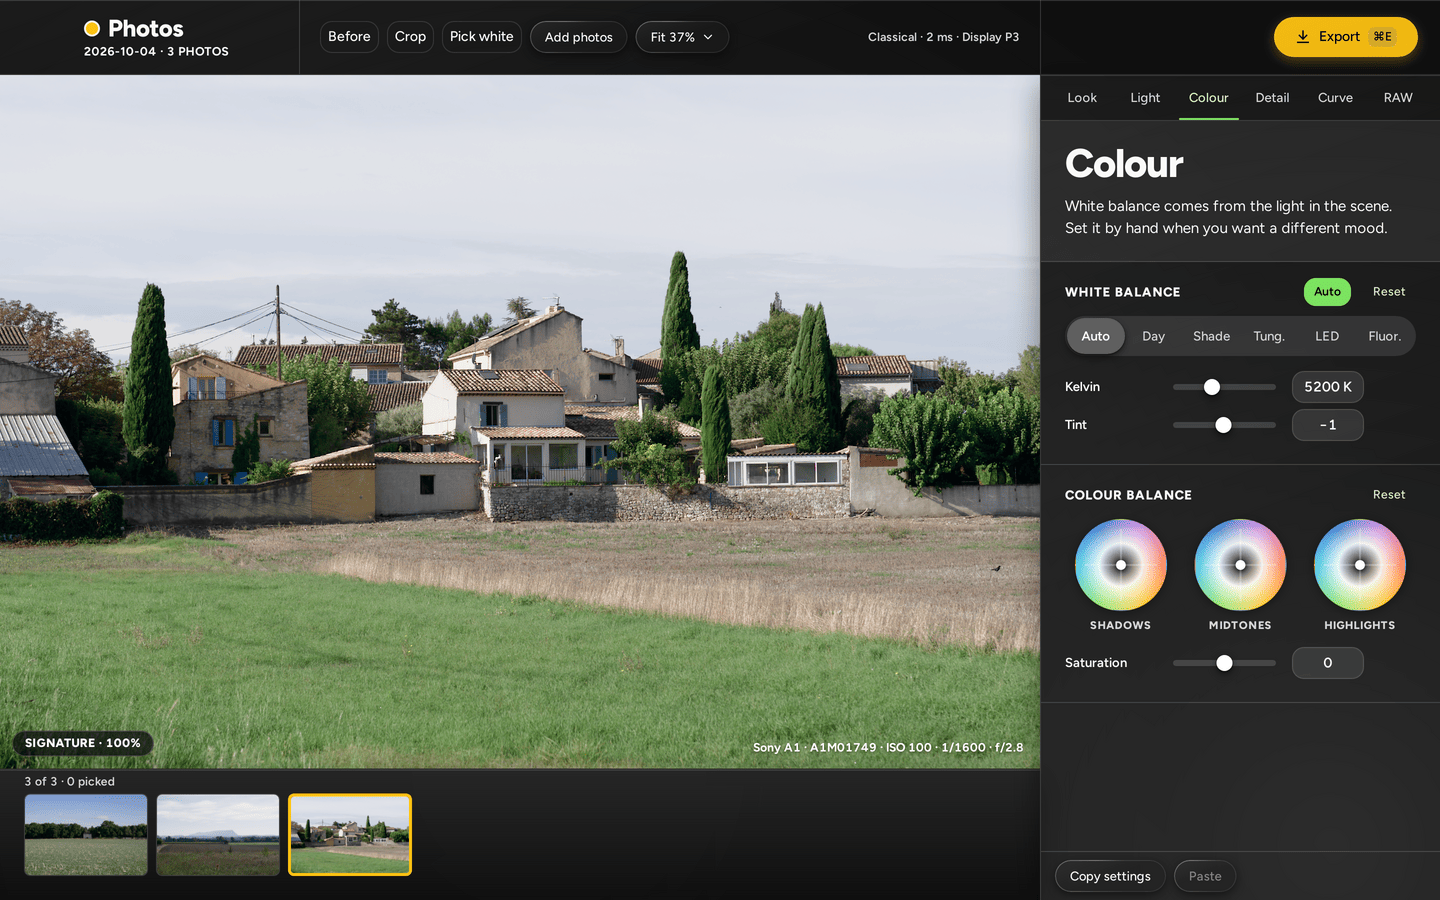
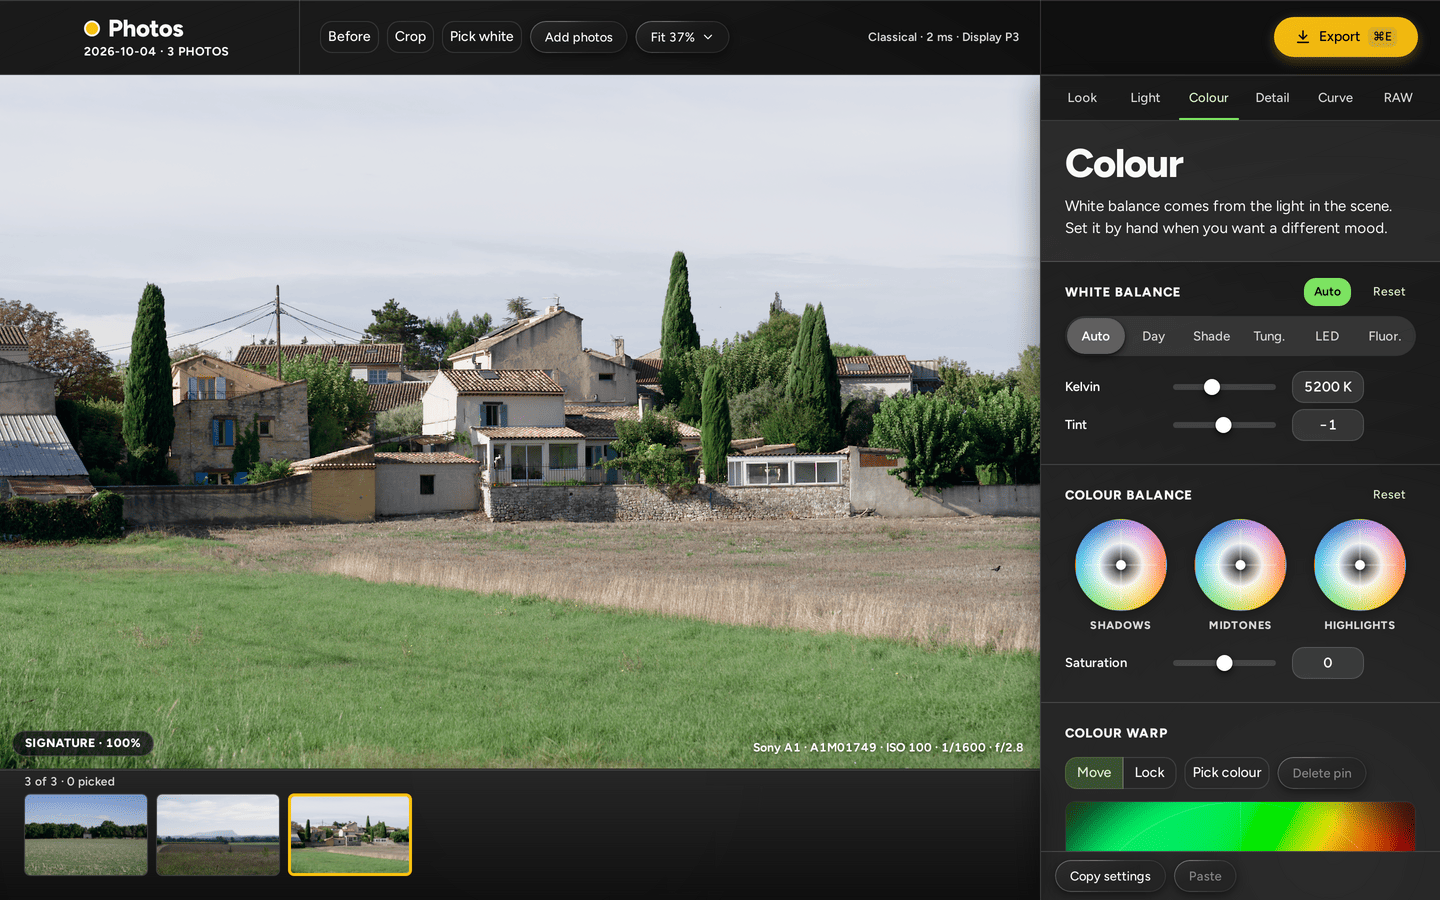
README: the Colour warp card in the screenshots
The README's Colour picture was taken before the colour warp existed.
tools/readme gets a colour-warp state: the Colour tab scrolled to the
Colour warp card, waiting for the photo's colours on the plane. A new
--warp option adds pins the way a person does (Pick colour, a click on
the photo, the arrow keys) and removes them after the picture.

The README picture is one pin on the grass of A1M01749, moved 0.014
towards green. photo-colour.png is retaken (the top of the warp card now
shows under Colour balance); the Export picture moves below the grid.

Claude-Session: https://claude.ai/code/session_015yVsquBXWFc8zJt2CLktQS

diff --git a/tools/readme/driver.js b/tools/readme/driver.js
@@ -2,8 +2,9 @@
 // Plain browser JavaScript, no imports; the helpers come from e2e/real/kit.js.
 //
 // It opens the photos the way a person does (a drop on the window), waits until everything on screen is final, and asks the runner for a
-// picture of the screen in each state: the Start screen with the photos ready, the Look, Light, Colour and Detail tabs, and the Export
-// panel. A state is never captured while a frame, a thumbnail, a look tile or the histogram is still on its way.
+// picture of the screen in each state: the Start screen with the photos ready, the Look, Light, Colour and Detail tabs, the Colour tab's
+// Colour warp card, and the Export panel. A state is never captured while a frame, a thumbnail, a look tile, the histogram or the colours
+// of the warp plane are still on their way.
 (function () {
   "use strict";
   const config = window.__SMOKE__;
@@ -11,6 +12,12 @@
 
   /** The tool tabs by the name of a state: the key that picks the tab (⌘1 to ⌘4) and the words of its title block. */
   const TABS = { look: { key: "1", title: "Look" }, light: { key: "2", title: "Light" }, colour: { key: "3", title: "Colour" }, detail: { key: "4", title: "Detail" } };
+  /** The tab each photo state shows. */
+  const STATE_TAB = { look: "look", light: "light", colour: "colour", "colour-warp": "colour", detail: "detail" };
+  /** How far one press of an arrow key moves a warp pin on the chroma plane (`WARP_KEY_STEP`); with Shift, ten times as far. */
+  const WARP_KEY_STEP = 0.002;
+  /** On while the Colour warp card is captured: the plane must show the photo's colours before the picture is taken. */
+  let warpShown = false;
   const note = (text) => send("note", { text });
   const device = (n) => Math.round(n * (window.devicePixelRatio || 1));
   const rectOf = (el) => {
@@ -102,6 +109,10 @@
         }
       } else if (activeTab() === "light") {
         if (!qa(".ym-histogram svg path").some((p) => (p.getAttribute("d") || "").length > 10)) why.push("the histogram is empty");
+      } else if (activeTab() === "colour" && warpShown) {
+        const plane = q(".ym-warp-plane");
+        if (!plane) why.push("no Colour warp card");
+        else if (Number(plane.getAttribute("data-scatter-points") || 0) === 0) why.push("the warp plane has no colours of the photo yet");
       }
     } else why.push("unexpected screen: " + screen);
     return { ready: why.length === 0, why: why.join("; "), signature: document.body.innerHTML + "|" + (frame() ? frame().src : "") };
@@ -252,6 +263,105 @@
     await waitFor(`the ${tab.title} tab`, () => activeTab() === tab.title.toLowerCase() && textOf(".ym-title-block__title").trim() === tab.title, 10000);
   }
 
+  // --- The Colour warp card -------------------------------------------------------------------------------------------------------
+
+  const warpCard = () => {
+    const plane = q(".ym-warp-plane");
+    return plane ? plane.closest("section") : null;
+  };
+  const warpPin = (n) => q(`.ym-warp-plane [aria-label="Pin ${n}"]`);
+  const pinCount = () => qa('.ym-warp-plane [aria-label^="Pin "]').length;
+  const buttonOf = (root, words) => qa("button", root).find((b) => b.textContent.trim() === words);
+
+  /** Scrolls the tool panel so the card's bottom is at the panel's bottom (or back to the top), at once. */
+  function scrollPanel(card, toCard) {
+    const panel = card.closest(".ym-tools__scroll");
+    if (!panel) throw new Error("the Colour warp card is not in the tool panel");
+    panel.scrollTop = toCard ? panel.scrollTop + card.getBoundingClientRect().bottom - panel.getBoundingClientRect().bottom : 0;
+  }
+
+  /**
+   * Presses an arrow key on a pin `times` times (Shift moves ten steps), each once the pin is drawn where the last one put it. A pin at the
+   * edge of the plane stops there: the presses end and the log says so (the check of the pins afterwards names the move it got).
+   */
+  async function nudge(n, keyName, times, shift) {
+    for (let i = 0; i < times; i++) {
+      const pin = warpPin(n);
+      const before = pin.innerHTML;
+      pin.focus({ preventScroll: true });
+      pin.dispatchEvent(new KeyboardEvent("keydown", { key: keyName, shiftKey: shift, bubbles: true, cancelable: true }));
+      const moved = await waitFor(`pin ${n} to move`, () => warpPin(n) && warpPin(n).innerHTML !== before, 5000).then(() => true, () => false);
+      if (!moved) {
+        note(`pin ${n} does not move further with ${keyName} (the edge of the plane?)`);
+        return;
+      }
+    }
+  }
+
+  /**
+   * Adds the pins of `--warp` the way a person does: Pick colour on, a click on the photo for each (the pin's source is the colour under
+   * the click), then the arrow keys on the pin to move it. Checks the pins the core holds afterwards.
+   */
+  async function addWarpPins(photo) {
+    const card = warpCard();
+    const pick = buttonOf(card, "Pick colour");
+    if (!pick) throw new Error("no Pick colour button on the Colour warp card");
+    if (pick.getAttribute("aria-pressed") !== "true") pick.click();
+    for (const [i, wanted] of config.warp.entries()) {
+      const n = i + 1;
+      const layer = await waitFor("the Pick colour layer over the photo", () => q('.ym-pick-layer[data-mode="color"]'), 10000);
+      const box = layer.getBoundingClientRect();
+      const count = pinCount();
+      layer.dispatchEvent(new MouseEvent("click", { bubbles: true, cancelable: true, button: 0, clientX: box.left + wanted.at[0] * box.width, clientY: box.top + wanted.at[1] * box.height }));
+      await waitFor(`pin ${n} from the click at ${wanted.at.join(", ")} (on the paper around the photo, or the photo is not ready?)`, () => pinCount() === count + 1, 30000);
+      for (const [axis, plus, minus] of [[0, "ArrowRight", "ArrowLeft"], [1, "ArrowUp", "ArrowDown"]]) {
+        const steps = Math.round(Math.abs(wanted.move[axis]) / WARP_KEY_STEP);
+        const keyName = wanted.move[axis] >= 0 ? plus : minus;
+        await nudge(n, keyName, Math.floor(steps / 10), true);
+        await nudge(n, keyName, steps % 10, false);
+      }
+    }
+    if (pick.getAttribute("aria-pressed") === "true") pick.click();
+    await waitFor("Pick colour off", () => !q(".ym-pick-layer"), 10000);
+    // The pins as the core has them: each moved by what was asked (a pin stops at the edge of the plane).
+    await sleep(500);
+    const resolved = await invoke("get_settings", { photoId: photo.id });
+    const pins = resolved.settings.color_warp.pins;
+    note("warp pins: " + pins.map((p) => `[${p.source.map((v) => v.toFixed(3))}] -> [${p.target.map((v) => v.toFixed(3))}]`).join(", "));
+    if (pins.length !== config.warp.length) throw new Error(`the core has ${pins.length} warp pins, not ${config.warp.length}`);
+    config.warp.forEach((wanted, i) => {
+      const moved = [pins[i].target[0] - pins[i].source[0], pins[i].target[1] - pins[i].source[1]];
+      if (moved.some((v, axis) => Math.abs(v - wanted.move[axis]) > WARP_KEY_STEP / 2)) note(`pin ${i + 1} moved by ${moved.map((v) => v.toFixed(3)).join(", ")}, not ${wanted.move.join(", ")} (the edge of the plane?)`);
+    });
+  }
+
+  /** The Colour warp card in view, with the pins of `--warp`, captured; then the pins removed and the panel scrolled back to the top. */
+  async function shootWarp(photo) {
+    const card = await waitFor("the Colour warp card", warpCard, 10000);
+    scrollPanel(card, true);
+    warpShown = true;
+    try {
+      if (config.warp && config.warp.length) {
+        await addWarpPins(photo);
+        // Drawn again with the pins, twice: the first time can take the late frame of the last key for its own. After the second the frame
+        // on screen has every pin and the time in the header is a warm one, as for every photo picture.
+        await refresh();
+        await refresh();
+      }
+      scrollPanel(card, true);
+      await shoot("photo-colour-warp", `${photo.name}, Colour tab, Colour warp card` + (config.warp && config.warp.length ? ` with ${config.warp.length} pin(s)` : ""));
+    } finally {
+      warpShown = false;
+    }
+    if (pinCount() > 0) {
+      const reset = buttonOf(card, "Reset");
+      if (!reset) throw new Error("no Reset on the Colour warp card");
+      reset.click();
+      await waitFor("the warp pins removed", () => pinCount() === 0, 10000);
+    }
+    scrollPanel(card, false);
+  }
+
   /**
    * Makes the webview 1440 x 900 CSS pixels, the size of the mockups. The window the app opens is 1440 x 900 with its menu bar inside
    * (25 px on Linux), so the page is 875 px tall; the page can't resize the window (the capabilities do not allow it), so the runner is
@@ -312,11 +422,14 @@
     const photos = await readyPhotos();
     note("photos: " + photos.map((p) => p.file).join(", "));
     const wanted = { look: "first", light: photos.length > 1 ? "second" : "first", colour: "colourful", detail: "first", export: "first" };
+    const pick = config.pick || {};
+    // The Colour warp card shows the photo of the Colour tab unless it is given one of its own.
+    const pickOf = (state) => pick[state] || (state === "colour-warp" ? pick.colour : undefined) || pick.all || wanted[STATE_TAB[state] || state];
     // Each state in turn, the photo it asks for and the tab it shows; Export is last (it replaces the tool panel).
-    for (const state of ["look", "light", "colour", "detail", "export"]) {
+    for (const state of ["look", "light", "colour", "colour-warp", "detail", "export"]) {
       if (!config.states.includes(state)) continue;
-      const photo = await choose((config.pick && (config.pick[state] || config.pick.all)) || wanted[state], photos);
-      if (!photo) throw new Error(`--pick for ${state}: no photo named ${(config.pick && config.pick[state]) || ""}`);
+      const photo = await choose(pickOf(state), photos);
+      if (!photo) throw new Error(`--pick for ${state}: no photo named ${pickOf(state)}`);
       await show(photo);
       await refresh();
       if (state === "export") {
@@ -325,9 +438,12 @@
           await waitFor("the Export panel", () => q("aside[aria-label=Export]"), 10000);
         }
         await shoot("photo-export", `the Export panel over ${photo.name}`);
+      } else if (state === "colour-warp") {
+        await openTab("colour");
+        await shootWarp(photo);
       } else {
         await openTab(state);
-        await shoot(state === "look" ? "photo-look" : state === "light" ? "photo-light" : state === "colour" ? "photo-colour" : "photo-detail", `${photo.name}, ${TABS[state].title} tab`);
+        await shoot(`photo-${state}`, `${photo.name}, ${TABS[state].title} tab`);
       }
     }
   }

diff --git a/docs/STATUS.md b/docs/STATUS.md
@@ -307,7 +307,7 @@ Mykyta wrote: "Great, merge C2 and V1 branch to main and build new version". C2 
 - **Dark behind the photo.** `--paper` of the dark theme in `design/tokens.css` and `src/styles/tokens.css` is `#0f0f10`; the same colour is `PAPER_SRGB` in `src-tauri/src/native.rs` (f64, the `NSWindow` background colour, 0.0588 0.0588 0.0627; the wgpu pass itself clears to black and the core's frame, letterboxed in `PAPER_RGB8`, covers the cell), `PAPER_RGB8` in `src-tauri/src/api.rs` (`options.render.background = PAPER_RGB8`, the letterbox of the viewport's frames, thumbnails and look tiles; the app sets it, the core's default stays white and the CLI and every export are byte-identical), `backgroundColor` of the window in `src-tauri/tauri.conf.json`, and the inline root style and `color-scheme` of `index.html` and `components.html`. Two Rust tests (`api/tests.rs`: the letterbox and the window colour equal `--paper`) and `src/styles/native-viewport.node.test.ts` (7 tests: all of them tied to `--paper`, the native-viewport rule keeps html, body, #root and the Photos screen transparent, and no C2 sheet paints the cell) hold them together. C2's CSS does not paint over the cell: the aurora is `pointer-events-none` and masked out of the cell's rectangle (`--cell-x/y/w/h`), checked by `e2e/viewport.spec.ts` in a browser with the native viewport mock (the boxes at five points of the cell are all clear and unblurred, and a capture without the page's background is transparent inside the cell and opaque in the header) and by the node test. The smoke page check in `src-tauri/src/app.rs` follows the new slider (`SMOKE_PERF_SCRIPT` reads the knob). Its description of the page (`SMOKE_DESCRIBE_PAGE`, read by `page_paints_over_cell`) also reads the aurora, which no hit test lists: the mask must exclude its second layer, that layer must be the cell's rectangle, `--cell-x/y/w/h` must be set, and no box over the cell may have a background image or a backdrop blur; `e2e/viewport.spec.ts` runs the same script in Chromium. Exports and the CLI are untouched: `the_app_and_the_command_line_write_the_same_bytes` passes.
 - **Review of the merge (11 findings, all applied).** `Button` has one tree whether or not it has a title (focus stays on Next when its note appears), its tooltip opens on hover only (an open tooltip took the first Esc), and a locked `Toggle` is muted and inert; the Update cell is an app `Button`, so the reason of a locked one shows on hover; `Slider` ignores non-primary buttons; the Look search's Clear is not a Tab stop and an Esc in an empty field reaches the page; the developing view's drop notice is selectable; `e2e/perf/latency.perf.ts` reads the filmstrip caption, and `src/perfSelectors.node.test.ts` holds every class the perf files select to the app's markup; the Mac `viewport` job's page check now reads the aurora's mask and `--cell-x/y/w/h` (`page_paints_over_cell`, `docs/13`); the stale Safari 15 comment, the README and the changelog now say the interface needs WebKit 16.4 (question 30 stays open); `docs/00`, `AGENTS.md` and this file no longer contradict the dark glass decision. Found while doing it: the wrapper span of every button collapsed the Look section headers to their text (the approved `photos-look-search` reference shows it), fixed in `glass-c2.css` and held by `e2e/look-sections.spec.ts`; `native-viewport.node.test.ts` read `PAPER_SRGB` as one line and failed once `rustfmt` split it over four.
 - **Gates** (Linux x86_64, no Mac, 2026-10-16): `cargo fmt --check` clean (one line of `native.rs` reformatted), `cargo clippy --workspace --all-targets -- -D warnings` clean, `RUSTDOCFLAGS="-D warnings" cargo doc --workspace --no-deps` clean, `cargo deny check` ok (advisories, bans, licenses, sources), `cargo test -p yellowmoon-app` 138 passed, 0 failed, 3 ignored (two new). The parity test failed first because `src-tauri/binaries/ym-x86_64-unknown-linux-gnu` (git-ignored) was an old `ym`; `cargo build -p ym-cli`, copied over it, passes.
-- **README screenshots** are redone in the neutral graphite interface (2026-10-17, 0.1.8; before that in the cool dark glass of 2026-10-16) from A1M01749, 1440 × 900, 465 … 478 KB, and the social card with them (`docs/images/social-card.png`, 354 KB, its own colours in `tools/social-card/card.html` made neutral too); Mykyta uploads the new card (SOC-1). `tools/readme` now shrinks a picture with one dithered palette over the whole image (`--palette whole`, the default): the region palettes of the flat interface made the glass panes blotchy and turned the Light tab's cyan Auto pill white. The social card (`docs/images/social-card.png`, `tools/social-card`) is made from the same capture; Mykyta uploads it in the repository's Settings → General → Social preview (Waiting on Mykyta).
+- **README screenshots** are redone in the neutral graphite interface (2026-10-17, 0.1.8; before that in the cool dark glass of 2026-10-16) from A1M01749, 1440 × 900, 465 … 478 KB, and the social card with them (`docs/images/social-card.png`, 354 KB, its own colours in `tools/social-card/card.html` made neutral too); Mykyta uploads the new card (SOC-1). `tools/readme` now shrinks a picture with one dithered palette over the whole image (`--palette whole`, the default): the region palettes of the flat interface made the glass panes blotchy and turned the Light tab's cyan Auto pill white. The social card (`docs/images/social-card.png`, `tools/social-card`) is made from the same capture; Mykyta uploads it in the repository's Settings → General → Social preview (Waiting on Mykyta). The README has a sixth picture since 2026-10-17 (after 0.1.9): `photo-colour-warp.png`, the Colour tab scrolled to the Colour warp card, with one pin on the grass moved 0.014 towards green (`tools/readme`'s new `colour-warp` state and `--warp` option: the pin is added through Pick colour and the arrow keys, and removed after the picture). `photo-colour.png` is retaken with it (the top of the warp card now shows under Colour balance); the Export picture moved below the grid, full width.
 - **Mac-only checks** (M0-H4 row below): the dark ground and no white flash in WKWebView, the photo showing through the cell with blurred glass beside it, Radix focus and menus in WKWebView, and whether the CSS (Tailwind 4: `@property`, `color-mix`, `oklch`, `backdrop-filter`) renders on macOS 14, the oldest supported (question 30, answered).
 
 ## Colour warp (C9b, the owner's request of 2026-10-17)
@@ -322,7 +322,7 @@ Mykyta wrote: "I'd like this type of color warper tool on colour page. It's from
 
 ## Neutral graphite (0.1.8, the owner's choice of 2026-10-17)
 
-The ground, the aurora, the frost, the fills, the grey labels and the filmstrip have no hue (glasscn's Graphite palette with its blue-violet taken out); yellow buttons and tab accents stay (`docs/11`, `docs/16`). Midnight was shown and declined. The 24 references are retaken; the README pictures and the social card still show the cool aurora and are redone next (they need the real app on port 1420).
+The ground, the aurora, the frost, the fills, the grey labels and the filmstrip have no hue (glasscn's Graphite palette with its blue-violet taken out); yellow buttons and tab accents stay (`docs/11`, `docs/16`). Midnight was shown and declined. The 24 references are retaken; the README pictures and the social card were redone in it for 0.1.8 (the README screenshots bullet above).
 
 **Nightly fuzz finding (fixed 2026-10-17).** `look_json` found a parametric look whose CDL overflowed at white (blue slope 5.9, power 1405) and evaluated to NaN. `ParametricLook::from_spec` now refuses a CDL that reaches 1000 at white (`LookError::CdlOutOfRange`); the input is in the fuzz corpus and a unit test.
 

diff --git a/tools/readme/README.md b/tools/readme/README.md
@@ -17,6 +17,7 @@ It reuses the machinery of `npm run e2e:shell` (`e2e/real/host.mjs`: the server 
 | `photo-look.png` | a photo open, Look tab (Automatic card, intensity, look tiles) | the first |
 | `photo-light.png` | Light tab (exposure, histogram, highlights and shadows); left out for a single photo | the second |
 | `photo-colour.png` | Colour tab (white balance card, colour balance wheels) | the most colourful |
+| `photo-colour-warp.png` | Colour tab scrolled to the Colour warp card: the photo's colours on the chroma plane, and the pins of `--warp` if any (removed again afterwards) | that of `photo-colour` |
 | `photo-detail.png` | Detail tab (sharpening, noise reduction) | the first |
 | `photo-export.png` | Export panel over a photo | the first |
 | `*-1x.png` | the same at half size, written when it is less than 60 % of the 2x file (always, with `--one-x always`) | |
@@ -43,13 +44,24 @@ The "most colourful" photo is worked out from the thumbnails of the filmstrip (H
 --pick DSC04204                 one photo for every state
 ```
 
-A pick is `first`, `second`, `last`, `colourful`, a number (1 is the first in the filmstrip) or a file name, or part of one. Landscape photos with a lot of sky and colour make the best pictures: a portrait photo is letterboxed on the paper-white cell, as the app draws it.
+A pick is `first`, `second`, `last`, `colourful`, a number (1 is the first in the filmstrip) or a file name, or part of one. `colour-warp` shows the photo of `colour` unless it is given one of its own (`--pick colour-warp=2`). Landscape photos with a lot of sky and colour make the best pictures: a portrait photo is letterboxed on the paper-white cell, as the app draws it.
 
 `--export-to "~/Pictures/Lisbon export"` is the folder the Export panel says it saves to. The default is that sentence with the folder's name, as in the mockup; the real default is next to the photos and would put your own paths on the picture. Nothing is exported either way.
 
 Other options (`npm run readme:screenshots -- --help`): `--states`, `--scale 1`, `--palette`, `--max-kb`, `--min-colours`, `--dither`, `--one-x`, `--no-optimise`, `--keep-raw`, `--dist`, `--binary`, `--data`, `--stable-ms`, `--timeout-min`.
 
 The debug app reads the repository's `data/` folder at run time. When the app was built before a change to `data/` (the app then refuses every photo with an "unknown field" error), or `data/` is being edited, give `--data` a copy: `git archive HEAD data | tar -x -C /tmp/snapshot` and `--data /tmp/snapshot/data`.
+
+## Pins on the Colour warp card
+
+```
+--warp "0.35,0.9:-0.014,0"                     one pin: the colour at 35 % across and 90 % down the photo, moved left on the plane
+--warp "0.35,0.9:-0.014,0; 0.4,0.43:0.01,0"     two pins
+```
+
+Without `--warp` the card shows the photo's colours on the plane and no pins. With it, each pin is added the way a person adds one: Pick colour on, a click on the photo at `x,y` (a share of the photo cell's width and height; the photo fills the cell at Fit for a landscape photo), then the arrow keys on the new pin until it has moved by `da,db` on the chroma plane (right and up; one key press is 0.002, with Shift 0.02). The log prints each pin as the core holds it. After the picture the card's Reset removes the pins, so the states after it show the photo as it was.
+
+The plane is 0.6 across and a photo's colours usually sit within 0.05 of its middle, so moves are small: 0.01 to 0.02 is a visible change. A pin on a colour close to grey moves everything near grey with it (the first try of the README picture turned a dry field pink); try a move with `ym render --settings` (a `color_warp` document) before taking the picture. The README picture is one pin on the grass of A1M01749, moved 0.014 to the left: greener, cooler grass, with the sky and the dry field left as they were.
 
 ## Size
 
@@ -71,7 +83,7 @@ On the glass interface this mode comes out wrong, which is why `whole` is the de
 
 ## What counts as "final"
 
-A picture is taken only when, on the Photos screen: a frame of the cell's exact size is drawn, no "Still developing" note covers the photo, every thumbnail of the filmstrip is drawn, every look tile on the Look tab shows the open photo (the address of a tile names the photo it was made from), the Light tab's histogram has its curves, the Export panel has its size estimate, and the page has not changed for 1.5 s. After the picture it looks again, and takes it again if anything moved. Before each photo picture the photo is drawn once more (Before on, then off), so the render time in the header is a warm one.
+A picture is taken only when, on the Photos screen: a frame of the cell's exact size is drawn, no "Still developing" note covers the photo, every thumbnail of the filmstrip is drawn, every look tile on the Look tab shows the open photo (the address of a tile names the photo it was made from), the Light tab's histogram has its curves, the Colour warp plane has the photo's colours, the Export panel has its size estimate, and the page has not changed for 1.5 s. After the picture it looks again, and takes it again if anything moved. Before each photo picture the photo is drawn once more (Before on, then off), so the render time in the header is a warm one. After the pins of `--warp` it is drawn twice: the first time can take the late frame of the last key press for its own, and the header then shows that frame's cold time.
 
 ## Updating the README
 

diff --git a/README.md b/README.md
@@ -11,7 +11,9 @@ Yellowmoon is a free, open-source raw processor for macOS. Drop in ARW files fro
 | | |
 |---|---|
 | ![Light tab: exposure, histogram, highlights and shadows](docs/images/readme/photo-light.png) | ![Colour tab: white balance and colour balance](docs/images/readme/photo-colour.png) |
-| ![Detail tab: sharpening and noise reduction](docs/images/readme/photo-detail.png) | ![Export panel](docs/images/readme/photo-export.png) |
+| ![Colour warp: one pin on the grass, moved towards green](docs/images/readme/photo-colour-warp.png) | ![Detail tab: sharpening and noise reduction](docs/images/readme/photo-detail.png) |
+
+![Export panel](docs/images/readme/photo-export.png)
 
 The screenshots are of the development build on Linux (`tools/readme`), in the dark glass interface; on a Mac the photo is drawn by a native Metal view.
 
